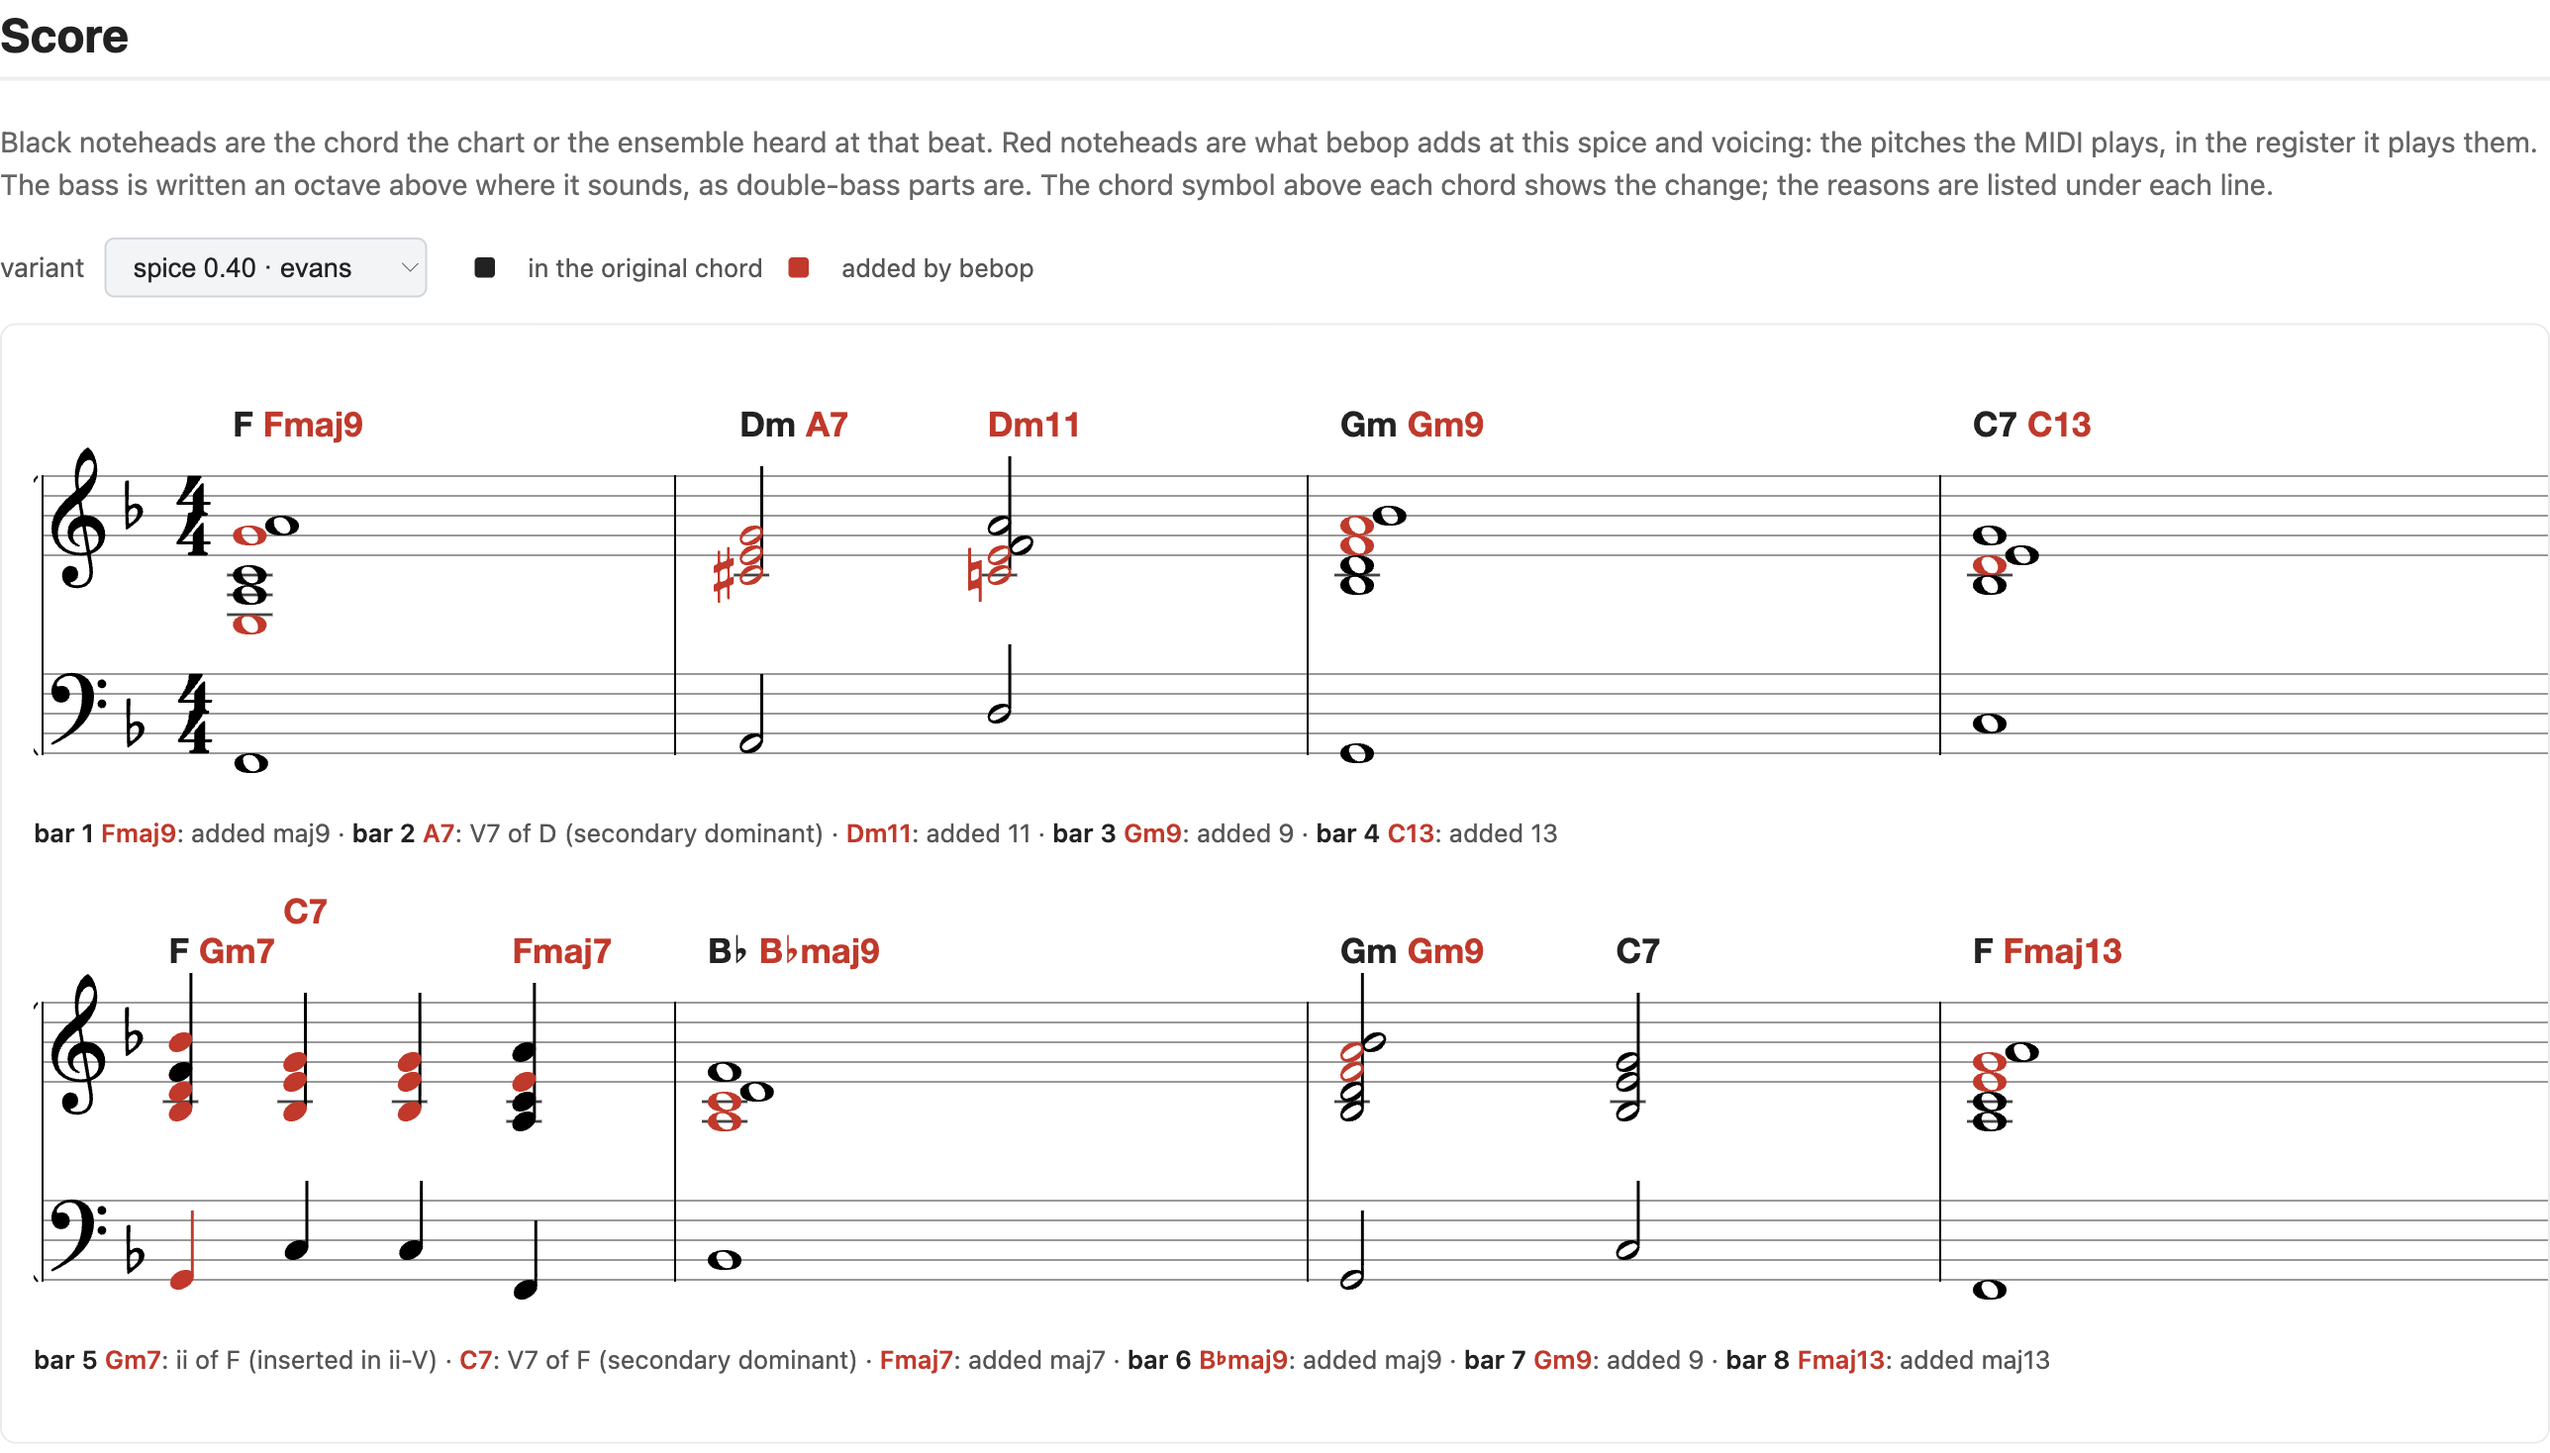
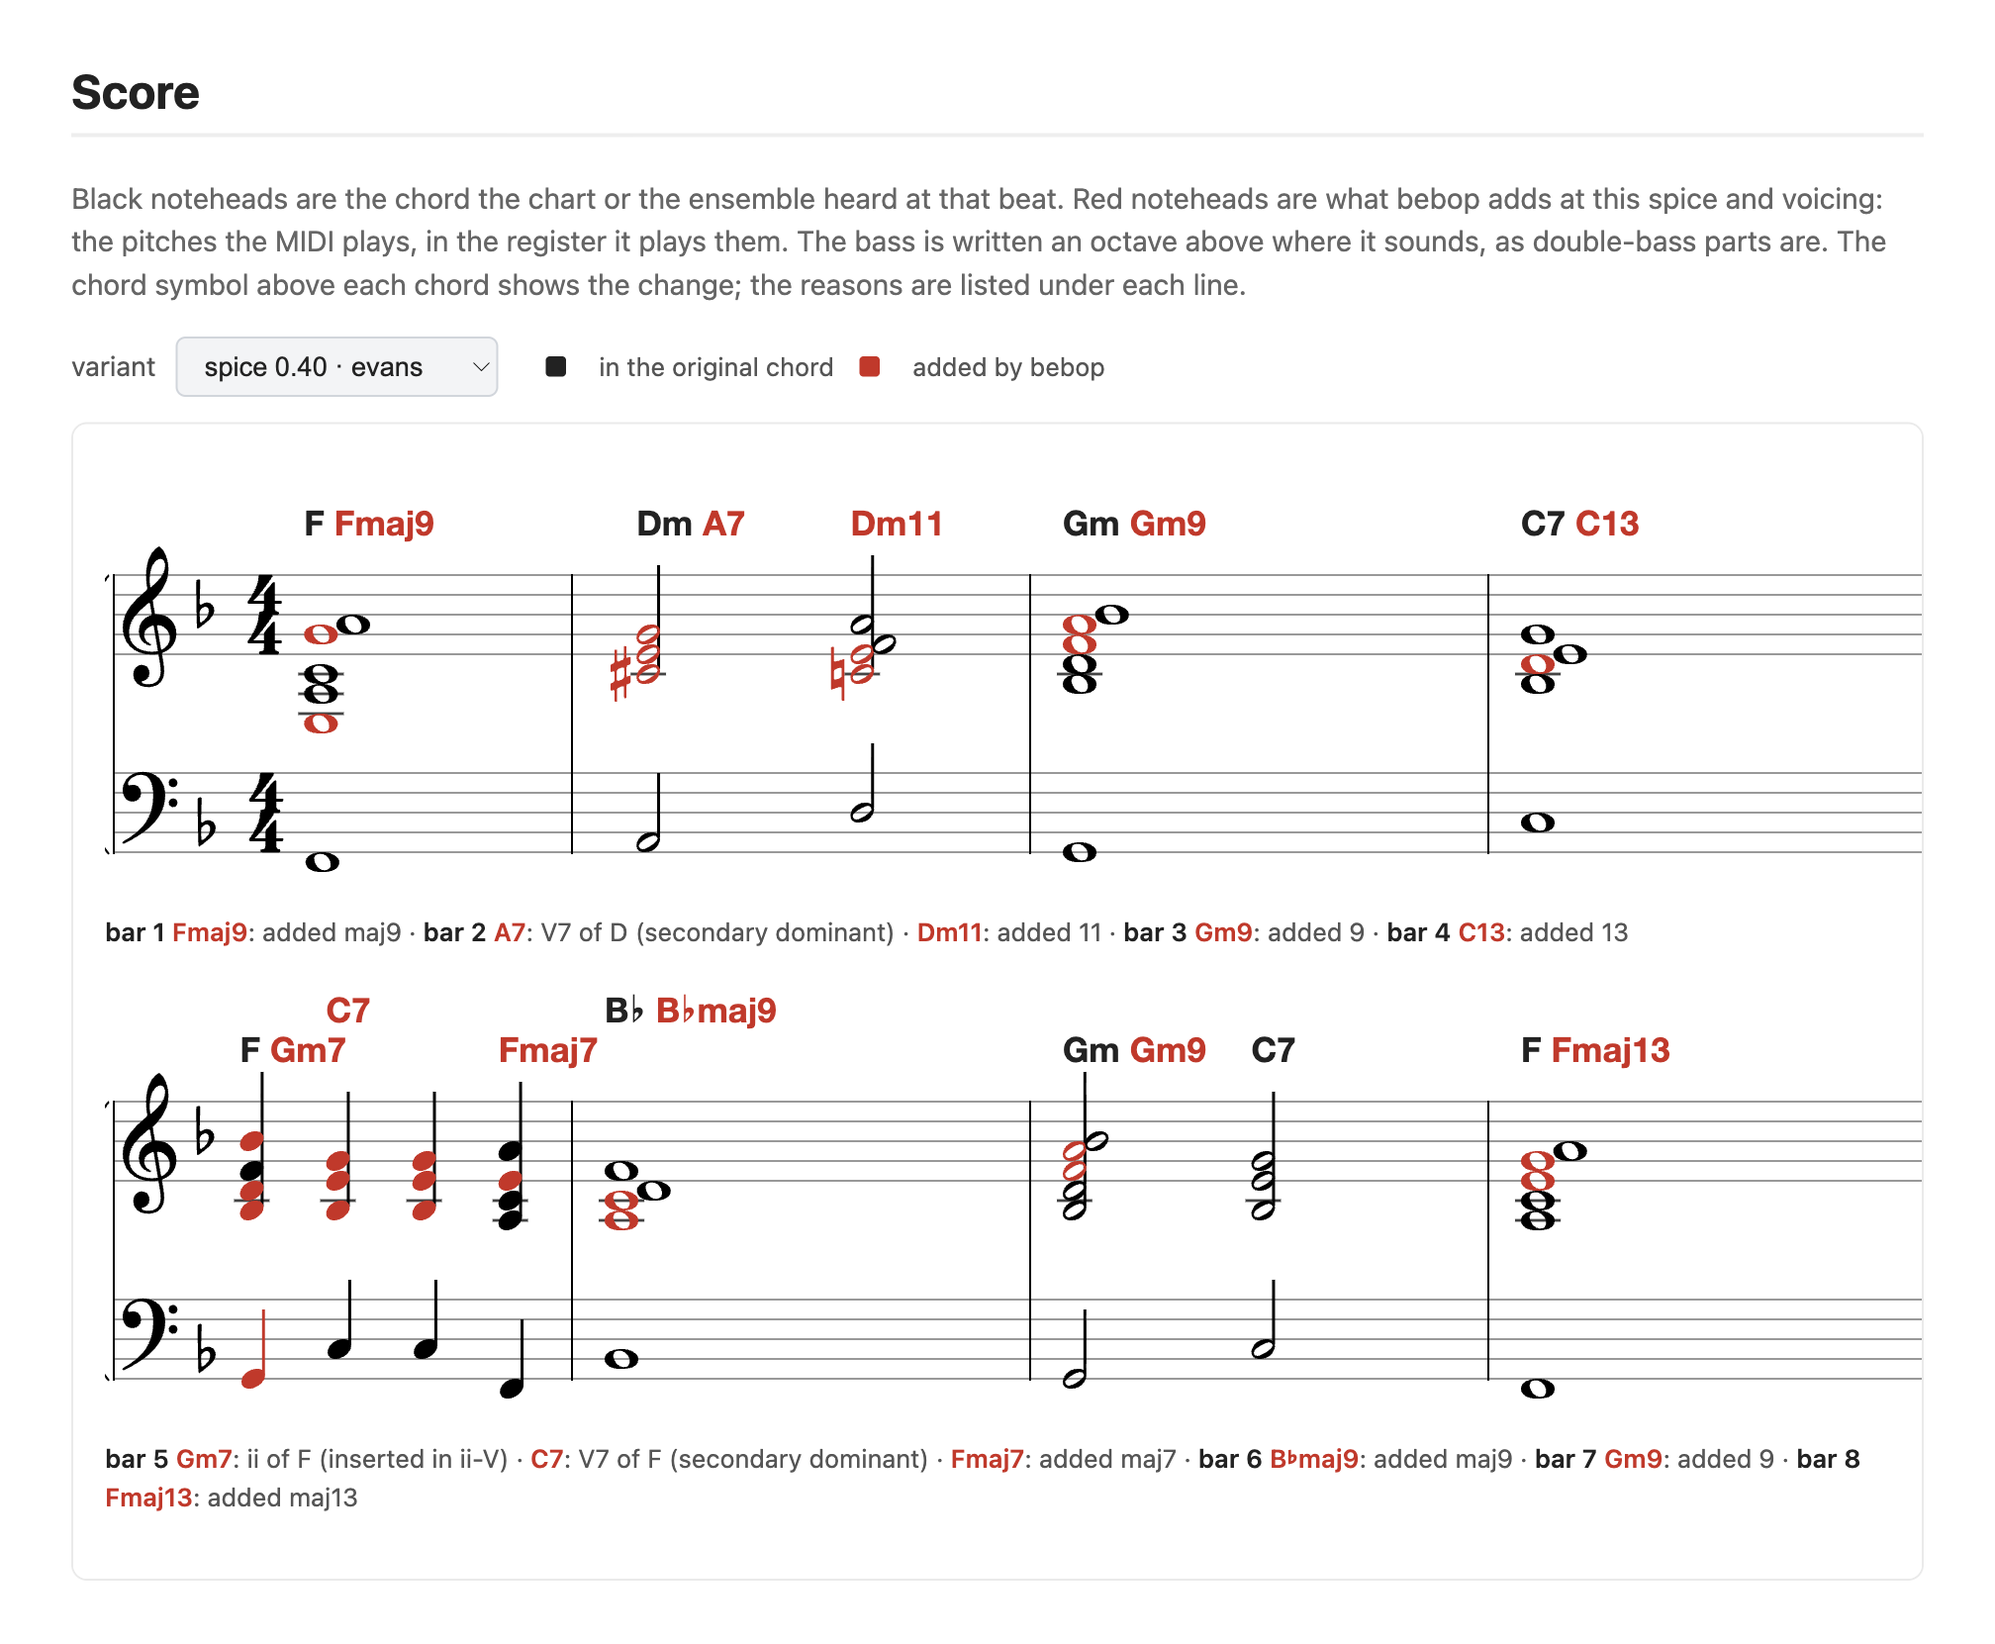
fix: pad the README score image and keep chord labels clear across bars

diff --git a/bebop/render/report.py b/bebop/render/report.py
@@ -600,6 +600,9 @@ _SCORE_JS = r"""
             const ctx = renderer.getContext();
 
             const noteEntries = [];
+            // the right edge of the last chord label on the lower shelf, carried
+            // across the system so a label can't run into the next bar's
+            let chordLowerEnd = -Infinity;
             let lastBar = null;
             let prevEntrySym = null;
             let prevEntryNote = null;
@@ -707,7 +710,6 @@ _SCORE_JS = r"""
                 // chord symbols: black is the original chord, shown once at the start
                 // of its span (a run of chords over the same original harmony); red is
                 // whatever changed; a chord that repeats the previous one carries no label
-                let chordLowerEnd = -Infinity;
                 measure.idx.forEach((rowIdx, i) => {
                     const row = rows[rowIdx];
                     const note = trebleNotes[i];
